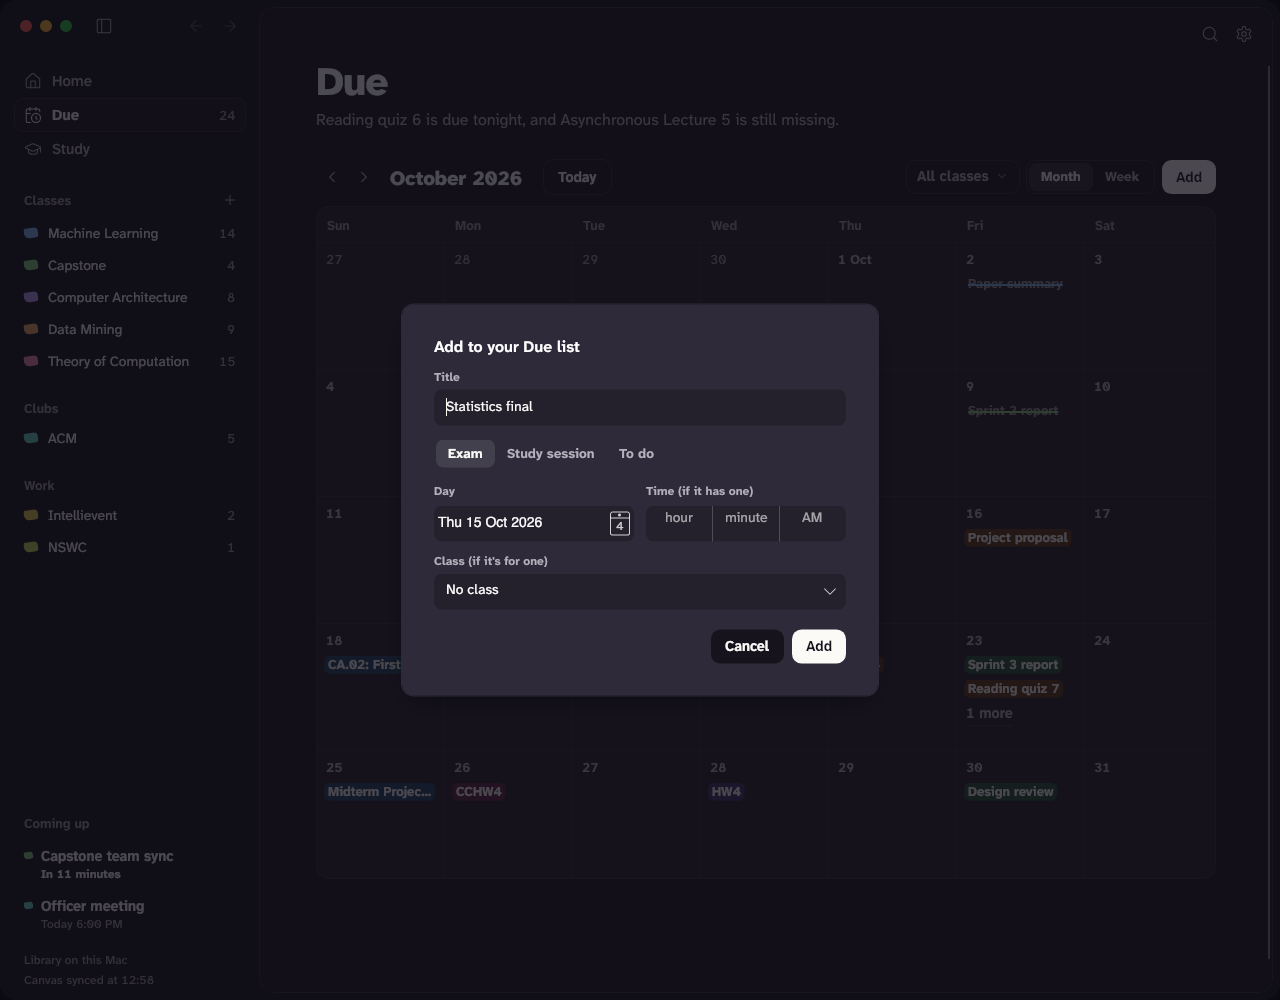
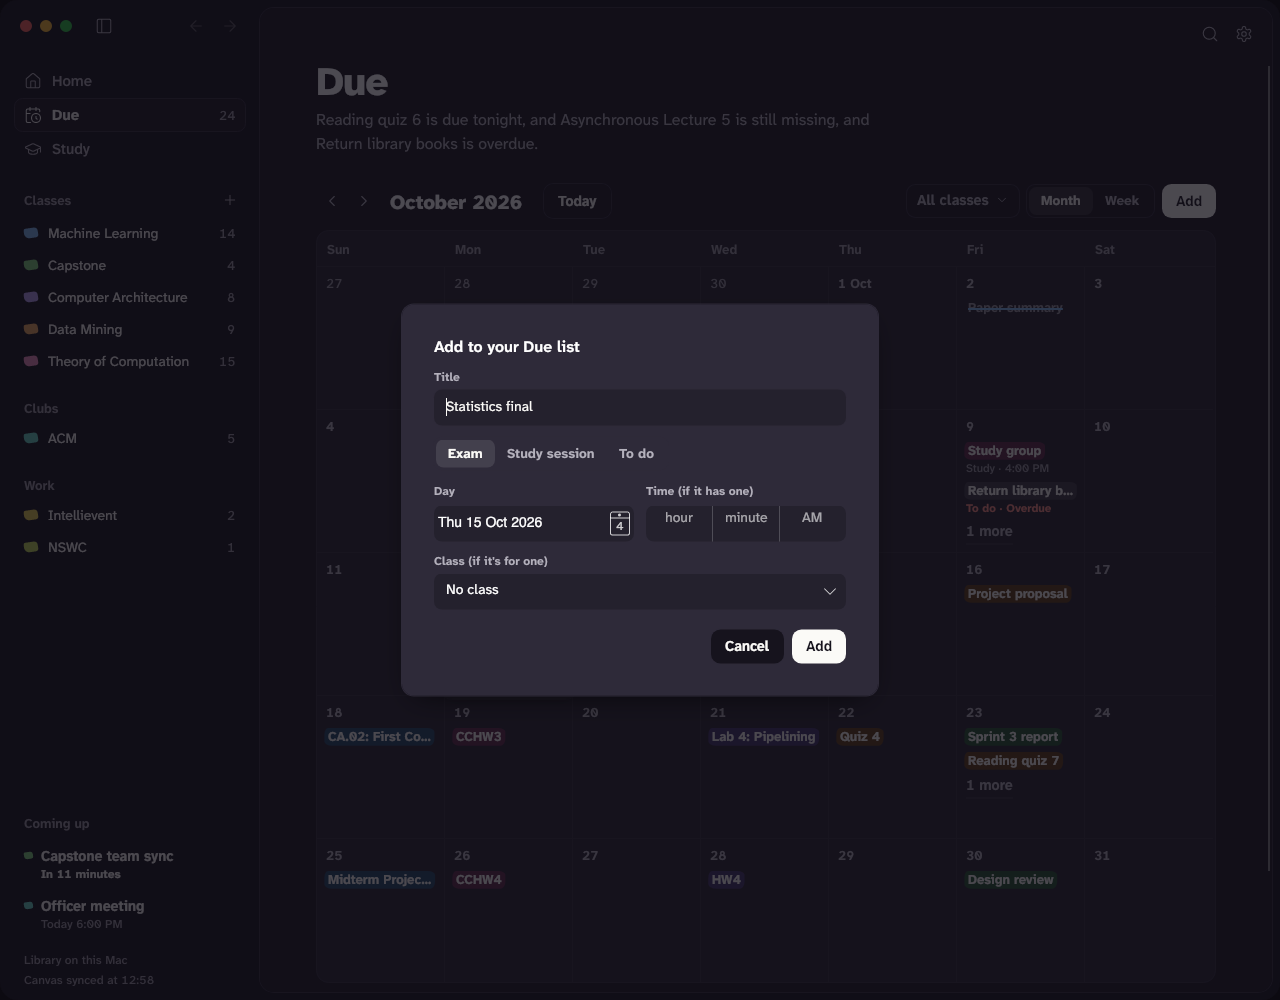
A past own exam or study session is behind the student, a past own to-do is overdue; neither reads missing
Assignments.Behind is the one rule (the in-class quiz that happened, and now an own exam or study session): ToHandIn and Upcoming ask it,
so such an item leaves Overdue, the count, Home and Ask the moment its time passes. The Due list sends them apart as behind, so the
calendar keeps them on their day, not struck through. A past unticked own to-do is overdue (label Overdue; Home says is overdue).

diff --git a/engine/src/StudyStash.App/ViewModels/OverviewModel.cs b/engine/src/StudyStash.App/ViewModels/OverviewModel.cs
@@ -557,6 +557,9 @@ public sealed partial class OverviewModel : ObservableObject
     static IEnumerable<CanvasApi.Item> StillToHandIn(CanvasApi.DueResponse? due) =>
         due is null ? [] : due.Groups.Where(g => g.Key != "handed_in").SelectMany(g => g.Items).Where(CanvasWords.ToHandIn);
 
+    /// <summary>Their own exams and study sessions that are over (<see cref="CanvasApi.DueResponse.Behind"/>): on their day, nowhere else.</summary>
+    static IEnumerable<CanvasApi.Item> BehindThem(CanvasApi.DueResponse? due) => due?.Behind ?? [];
+
     static IEnumerable<CanvasApi.Item> HandedIn(CanvasApi.DueResponse? due) =>
         due is null ? [] : due.Groups.Where(g => g.Key == "handed_in").SelectMany(g => g.Items);
 
@@ -570,7 +573,7 @@ public sealed partial class OverviewModel : ObservableObject
     /// <summary>A deadline in the week's planner: under its day it shows only the time; in the Late column, the day it was due.</summary>
     static OverviewDue DueRow(CanvasApi.Item i, Sources s, Func<string, IBrush> dot, bool classLabel, bool done = false)
     {
-        bool late = !done && LateBefore(i, s);
+        bool late = !done && !i.OwnEvent && LateBefore(i, s);
         string when = done ? (i.Mark == "done" ? Kit.DueMarkModel.DoneState : "Handed in")
             : i.DueAt is not { } d ? "No due date"
             : late ? $"Was due {Words(Local(d, s), Local(d, s).Year == Local(s.Now, s).Year ? "ddd d" : "d MMM yyyy")}"
@@ -676,14 +679,26 @@ public sealed partial class OverviewModel : ObservableObject
             }
             else first = $"{Count(that.Count)} {Kind(that, plural: true)} due {on}";
         }
-        string then = !missing && first.Length > 0 ? "" : late.Count switch
-        {
-            0 => "",
-            1 => first.Length > 0 ? $"and {late[0].Name} is still missing" : $"{late[0].Name} is still missing",
-            _ => first.Length > 0 ? $"and {Count(late.Count).ToLowerInvariant()} are still missing" : $"{Count(late.Count)} {Kind(late, plural: true)} are still missing",
-        };
+        string then = !missing && first.Length > 0 ? "" : Lateness(late, afterFirst: first.Length > 0);
         if (first.Length == 0 && then.Length == 0) return "";
         return first.Length > 0 && then.Length > 0 ? $"{first}, {then}." : $"{first}{then}.";
+    }
+
+    /// <summary>What's late, in words: Canvas work that wasn't handed in is "still missing", the student's own to-do is "overdue"
+    /// (never "missing"); "" when nothing is. <paramref name="afterFirst"/>: it follows what's due next, so it begins "and".</summary>
+    static string Lateness(List<CanvasApi.Item> late, bool afterFirst)
+    {
+        string Group(List<CanvasApi.Item> rows, string one, string many) => rows.Count switch
+        {
+            0 => "",
+            1 => $"{rows[0].Name} {one}",
+            _ => afterFirst ? $"{Count(rows.Count).ToLowerInvariant()} {many}" : $"{Count(rows.Count)} {Kind(rows, plural: true)} {many}",
+        };
+        var parts = new[]
+        {
+            Group([.. late.Where(i => !i.Own)], "is still missing", "are still missing"), Group([.. late.Where(i => i.Own)], "is overdue", "are overdue"),
+        }.Where(p => p.Length > 0).ToList();
+        return parts.Count == 0 ? "" : (afterFirst ? "and " : "") + string.Join(", and ", parts);
     }
 
     /// <summary>
@@ -716,6 +731,7 @@ public sealed partial class OverviewModel : ObservableObject
         bool Wanted(string cls) => only is null || cls == only;
         var open = StillToHandIn(s.Due).Where(i => Wanted(i.Class)).ToList();
         var done = HandedIn(s.Due).Where(i => Wanted(i.Class)).ToList();
+        var over = BehindThem(s.Due).Where(i => Wanted(i.Class)).ToList();
         var days = new List<WeekDay>();
         var late = today >= weekStart && today < weekStart.AddDays(7)
             ? open.Where(i => LateBefore(i, s) && (i.DueAt is not { } d || Local(d, s).Date < weekStart)).OrderBy(i => i.DueAt ?? DateTimeOffset.MinValue).ToList()
@@ -737,7 +753,7 @@ public sealed partial class OverviewModel : ObservableObject
             foreach (var m in (s.Events ?? []).Where(m => m.Class is { } c && Wanted(c) && Local(m.Start, s).Date == date).OrderBy(m => m.Start))
                 day.Meetings.Add(new WeekMeeting(Words(Local(m.Start, s), "h:mm"), ClassNames.Short(m.Class!), dot(m.Class!),
                     s.Lectures.Any(l => l.Class == m.Class && l.Date is { } at && at >= m.Start.AddMinutes(-45) && at <= m.End.AddMinutes(45))));
-            var due = open.Where(i => i.DueAt is { } d && Local(d, s).Date == date).Select(i => (Item: i, Done: false))
+            var due = open.Concat(over).Where(i => i.DueAt is { } d && Local(d, s).Date == date).Select(i => (Item: i, Done: false))
                 .Concat(done.Where(i => i.DueAt is { } d && Local(d, s).Date == date).Select(i => (Item: i, Done: true)))
                 .OrderBy(x => x.Item.DueAt).Select(x => DueRow(x.Item, s, dot, only is null, done: x.Done)).ToList();
             Fill(day, due);
@@ -936,7 +952,7 @@ public sealed partial class OverviewModel : ObservableObject
             soon = away <= 7;
             when = away <= 1 ? $"{Day(d, s.Now, s.Zone)}, {Time(d, s.Zone)}" : away <= 14 ? $"{Day(d, s.Now, s.Zone)}, in {away} days" : Day(d, s.Now, s.Zone);
         }
-        return new RailDue(i.Name, when, soon, late, first, $"{i.Name}, {(late ? "missing, " : "due ")}{when}", () => s.OpenAssignment?.Invoke(i.Class, i.Id));
+        return new RailDue(i.Name, when, soon, late, first, $"{i.Name}, {(late ? i.Own ? "overdue, " : "missing, " : "due ")}{when}", () => s.OpenAssignment?.Invoke(i.Class, i.Id));
     }
 
     /// <summary>A Canvas class's lists, in the rail: each opens that list.</summary>

diff --git a/engine/src/StudyStash.App/ViewModels/DueCalendarModel.cs b/engine/src/StudyStash.App/ViewModels/DueCalendarModel.cs
@@ -76,7 +76,9 @@ public sealed partial class DueCalendarModel : ObservableObject
         sources = s with { OpenOwn = item => Own.Edit(item, s.Zone) };
         var dots = s.Classes.GroupBy(c => c.Name).ToDictionary(g => g.Key, g => g.First().Dot);
         dot = name => dots.TryGetValue(name, out var d) ? d : Brushes.Gray;
+        // Their own exams and study sessions that are over stay on their day, not struck through: they were never handed in.
         all = [.. (s.Due?.Groups ?? []).SelectMany(g => g.Items.Select(i => (i, Done: g.Key == "handed_in" || !CanvasWords.ToHandIn(i))))
+            .Concat((s.Due?.Behind ?? []).Select(i => (i, Done: false)))
             .Where(x => x.i.DueAt is not null).GroupBy(x => (x.i.Class, x.i.Id)).Select(g => g.First())];
         var today = Today;
         month = new DateTime(today.Year, today.Month, 1);
@@ -182,7 +184,7 @@ public sealed partial class DueCalendarModel : ObservableObject
     IEnumerable<(CanvasApi.Item Item, bool Done)> Showing => all.Where(x => Class is null || x.Item.Class == Class);
 
     /// <summary>Past its day and not handed in: it says so, in words, on the day it was due.</summary>
-    bool IsMissing(CanvasApi.Item i, bool done) => !done && (i.Missing || i.Status is "missing" or "overdue" or "past due" || Local(i.DueAt!.Value).Date < Today);
+    bool IsMissing(CanvasApi.Item i, bool done) => !done && !i.OwnEvent && (i.Missing || i.Status is "missing" or "overdue" or "past due" || Local(i.DueAt!.Value).Date < Today);
 
     CalendarItem ItemFor(CanvasApi.Item i, bool done)
     {
@@ -190,14 +192,16 @@ public sealed partial class DueCalendarModel : ObservableObject
         bool missing = IsMissing(i, done);
         string time = at.ToString("h:mm tt", CultureInfo.InvariantCulture);
         // The end of the day is when most things are due, so it goes unsaid, except today: "Tonight 11:59 PM".
-        string sub = missing ? "Missing" : done ? ""
+        // Their own to-do is overdue, never "missing" (that's for work that wasn't handed in).
+        string late = i.Own ? "Overdue" : "Missing";
+        string sub = missing ? late : done ? ""
             : at.Date == Today ? $"{(at.Hour >= 17 ? "Tonight" : "Today")} {time}"
             : at is { Hour: 23, Minute: 59 } ? "" : time;
         // The student's own item has its small kind word in front, in place of Canvas's link: "Exam · 9:00 AM".
         if (i.Own) sub = sub.Length > 0 ? $"{Kit.OwnDueFormModel.WordFor(i.What)} · {sub}" : Kit.OwnDueFormModel.WordFor(i.What);
         string cls = ClassNames.Display(i.Class);
         bool ticked = i.Mark == "done";
-        string state = ticked ? Kit.DueMarkModel.DoneState : done ? "Handed in" : missing ? "Missing" : "";
+        string state = ticked ? Kit.DueMarkModel.DoneState : done ? "Handed in" : missing ? late : "";
         string day = OverviewModel.Day(i.DueAt!.Value, sources.Now, sources.Zone);
         string said = string.Join(", ", new[] { i.Name, cls, i.AllDay ? $"due {day}" : $"due {day} at {time}", state }.Where(w => w.Length > 0));
         return new CalendarItem(i.Class, i.Id, i.Name, sub, missing, done, dot(i.Class), cls.Length > 0 ? $"{i.Name}, {cls}" : i.Name, said,

diff --git a/engine/src/StudyStash.App/Demo.cs b/engine/src/StudyStash.App/Demo.cs
@@ -281,8 +281,9 @@ public static class Demo
     /// <param name="done">The id of a Due item (d1 is the missing one) the student ticked off in Syft Notes.</param>
     /// <param name="hidden">The id of a Due item the student hid.</param>
     /// <param name="quiet">No class or meeting left today, so Home's sentence is about what's due (and missing).</param>
-    /// <param name="own">Two of the student's own items on the Due list: a Data Mining midterm (an exam, Wednesday 9:00 AM, id o1) and a
-    /// study session for Theory of Computation (Tuesday 4:00 PM, id o2).</param>
+    /// <param name="own">The student's own items on the Due list: a Data Mining midterm (an exam, Wednesday 9:00 AM, id o1) and a study
+    /// session for Theory of Computation (Tuesday 4:00 PM, o2) this week; last Friday's study group (o3), behind them; and a to-do with no
+    /// class that is overdue (o4).</param>
     public static LibraryModel Semester(Page page = Page.Home, bool recording = false, bool narrow = false, Action<Page>? go = null, string? done = null, string? hidden = null, bool quiet = false, bool own = false)
     {
         (string Name, string Hue, int Notes, string Group)[] folders =
@@ -361,14 +362,24 @@ public static class Demo
         };
         if (own)
         {
-            CanvasApi.Item Own(string c, string id, string name, string what, double day, double hour) => new()
+            CanvasApi.Item Own(string c, string id, string name, string what, DateTimeOffset at, string status = "open") => new()
             {
-                Class = c, Id = id, Name = name, Kind = "mine", What = what, Status = "open", DueAt = monday.AddDays(day).AddHours(hour),
+                Class = c, Id = id, Name = name, Kind = "mine", What = what, Status = status, DueAt = at, AllDay = at.Hour == 23 && at.Minute == 59,
             };
+            // The week's exam and study session; last Friday's study group is behind them (on its day, not overdue), and a to-do they
+            // didn't tick off is overdue.
+            var studyGroup = Own(toc, "o3", "Study group", "study", monday.AddDays(-3).AddHours(16));
+            var library = Own("", "o4", "Return library books", "task", monday.AddDays(-3).AddHours(23).AddMinutes(59), "overdue");
             due = due with
             {
-                Groups = [.. due.Groups.Select(g => g.Key == "week" ? g with { Items = [.. g.Items, Own(toc, "o2", "Review proofs", "study", 1, 16), Own(mining, "o1", "Data Mining midterm", "exam", 2, 9)] } : g)],
-                ToHandIn = due.ToHandIn + 2,
+                Groups = [.. due.Groups.Select(g => g.Key switch
+                {
+                    "week" => g with { Items = [.. g.Items, Own(toc, "o2", "Review proofs", "study", monday.AddDays(1).AddHours(16)), Own(mining, "o1", "Data Mining midterm", "exam", monday.AddDays(2).AddHours(9))] },
+                    "overdue" => g with { Items = [.. g.Items, library] },
+                    _ => g,
+                })],
+                Behind = [studyGroup],
+                ToHandIn = due.ToHandIn + 3,
             };
         }
         if (done is not null || hidden is not null) due = Marked(due, done, hidden);

diff --git a/engine/src/StudyStash.Core/Canvas/Assignments.cs b/engine/src/StudyStash.Core/Canvas/Assignments.cs
@@ -88,6 +88,7 @@ public static class Assignments
         "excused" => "Excused",
         "no submission" => "Nothing to hand in",
         "closed" => "Closed",
+        "overdue" => "Overdue",
         _ => status,
     };
 
@@ -223,18 +224,22 @@ public static class Assignments
         SharedFile.Write(PathIn(home), JsonSerializer.Serialize(items.ToList(), Options));
     }
 
+    /// <summary>Takes nothing to hand in and its time has gone (<paramref name="now"/> is wall-clock, like <see cref="Assignment.Due"/>):
+    /// an in-class quiz that already happened, or an exam or study session the student put on their own list
+    /// (<see cref="DueMine.IsEvent"/>). It is simply behind them; unlike work that wasn't handed in, it is never overdue or missing.</summary>
+    public static bool Behind(Assignment a, DateTime now) =>
+        (a.Status == "no submission" || DueMine.IsEvent(a)) && a.Due.Length > 0 && DateTime.Parse(a.Due, CultureInfo.InvariantCulture) < now;
+
     /// <summary>Still to hand in at <paramref name="now"/> (wall-clock, like <see cref="Assignment.Due"/>): not done, and not
-    /// work that takes nothing to hand in once its time has gone (an in-class quiz that already happened). That goes with
-    /// what's behind you and keeps its "Nothing to hand in" label; one still to come stays where it is. The class list, the
-    /// Due groups and their count all ask this, so they agree. (Decided when the list is read, not when it's synced: a quiz
-    /// held at 10:00 stops being "to hand in" at 10:00, not at the next sync.)</summary>
-    public static bool ToHandIn(Assignment a, DateTime now) =>
-        !a.Done && !(a.Status == "no submission" && a.Due.Length > 0 && DateTime.Parse(a.Due, CultureInfo.InvariantCulture) < now);
+    /// <see cref="Behind"/>. That goes with what's behind you and keeps its "Nothing to hand in" label; one still to come stays
+    /// where it is. The class list, the Due groups and their count all ask this, so they agree. (Decided when the list is read, not
+    /// when it's synced: a quiz held at 10:00 stops being "to hand in" at 10:00, not at the next sync.)</summary>
+    public static bool ToHandIn(Assignment a, DateTime now) => !a.Done && !Behind(a, now);
 
     /// <summary>What's still to do, soonest first: open, past due or missing, due within <paramref name="days"/> (or
     /// overdue), plus anything with no due date that's open.</summary>
     public static List<Assignment> Upcoming(IEnumerable<Assignment> all, DateTime now, int days = 14, string? className = null) =>
-        all.Where(a => (className is null || a.ClassName == className) && !a.Done && a.Status != "no submission")
+        all.Where(a => (className is null || a.ClassName == className) && !a.Done && a.Status != "no submission" && !Behind(a, now))
             // By calendar day: "within a week" includes the whole of the seventh day.
             .Where(a => a.Due.Length == 0 || DateTime.Parse(a.Due, CultureInfo.InvariantCulture) < now.Date.AddDays(days + 1))
             .Where(a => a.Due.Length == 0 || a.Status != "past due" || DateTime.Parse(a.Due, CultureInfo.InvariantCulture) >= now.AddDays(-21))

diff --git a/engine/src/StudyStash.Core/Canvas/CanvasView.cs b/engine/src/StudyStash.Core/Canvas/CanvasView.cs
@@ -200,11 +200,16 @@ public static class CanvasView
 
     /// <summary>The Due list across every class: overdue, due this week, later, with no due date, and handed in in
     /// the last week (newest first). What the student hid (<see cref="DueMarks"/>) is in none of them: it comes apart, as
-    /// <c>hidden</c>, for the Due tab's "Show hidden". <paramref name="folderOf"/> looks up where an assignment's files are.</summary>
+    /// <c>hidden</c>, for the Due tab's "Show hidden". The student's own exams and study sessions whose time has gone are in none of
+    /// them either (<see cref="Assignments.Behind"/>): they come apart, as <c>behind</c>, for the calendar's days. <paramref name="folderOf"/>
+    /// looks up where an assignment's files are.</summary>
     public static JsonObject Due(IReadOnlyList<Assignment> everything, string synced, DateTimeOffset nowOffset, TimeZoneInfo zone, Func<string, long, string?> folderOf)
     {
-        var all = everything.Where(a => a.Mark != DueMarks.Hidden).ToList();
         var now = TimeZoneInfo.ConvertTime(nowOffset, zone).DateTime;
+        // The student's own to-do that's past and not ticked off is overdue (an exam or study session is behind them instead).
+        Assignment OwnOverdue(Assignment a) => a.Kind == DueMine.Kind && !DueMine.IsEvent(a) && Assignments.ToHandIn(a, now) && DueOf(a) is { } d && d < now
+            ? a with { Status = "overdue" } : a;
+        var all = everything.Where(a => a.Mark != DueMarks.Hidden).Select(OwnOverdue).ToList();
         bool ToHandIn(Assignment a) => Assignments.ToHandIn(a, now);
         bool Overdue(Assignment a) => ToHandIn(a) && DueOf(a) is { } d && d < now;
         bool Week(Assignment a) => ToHandIn(a) && DueOf(a) is { } d && d >= now && d < now.Date.AddDays(8);
@@ -230,11 +235,14 @@ public static class CanvasView
             groups.Add(new JsonObject { ["key"] = key, ["label"] = label, ["items"] = new JsonArray(items.Select(Row).ToArray()) });
         }
         var next = toHandIn.Where(a => DueOf(a) is not { } d || d >= now).OrderBy(a => DueOf(a) ?? DateTime.MaxValue).FirstOrDefault();
+        // Their own exams and study sessions whose time has gone: in no group (nothing to hand in) but still on the calendar, on their day.
+        var behind = all.Where(a => DueMine.IsEvent(a) && !a.Done && Assignments.Behind(a, now)).OrderBy(a => DueOf(a)).ThenBy(a => a.Name, StringComparer.Ordinal);
         var hidden = everything.Where(a => a.Mark == DueMarks.Hidden).OrderBy(a => DueOf(a) ?? DateTime.MaxValue).ThenBy(a => a.Name, StringComparer.Ordinal);
         return new JsonObject
         {
             ["synced"] = When(synced), ["to_hand_in"] = toHandIn.Count, ["next"] = next is null ? null : Row(next), ["groups"] = groups,
             ["hidden"] = new JsonArray(hidden.Select(Row).ToArray()),
+            ["behind"] = new JsonArray(behind.Select(Row).ToArray()),
         };
     }
 

diff --git a/engine/tests/StudyStash.App.Tests/DueOwnUiTests.cs b/engine/tests/StudyStash.App.Tests/DueOwnUiTests.cs
@@ -115,4 +115,25 @@ public class DueOwnUiTests
             window.Close(); // a failure leaves no dialog layer behind for the next test
         }
     }
+
+    /// <summary>Past, their exam is simply behind them, on its day and not struck through; their to-do not ticked off is overdue. Neither
+    /// reads "missing", which is for Canvas work that wasn't handed in.</summary>
+    [Fact]
+    public void A_past_exam_stays_on_its_day_and_a_past_todo_is_overdue_never_missing()
+    {
+        var zone = TimeZoneInfo.CreateCustomTimeZone("Test", TimeSpan.FromHours(-5), "Test", "Test");
+        var exam = new CanvasApi.Item { Class = "", Id = "1", Name = "Statistics final", Kind = "mine", What = "exam", Status = "open", DueAt = new DateTimeOffset(2026, 11, 2, 9, 0, 0, TimeSpan.FromHours(-5)) };
+        var todo = new CanvasApi.Item { Class = "", Id = "2", Name = "Return library books", Kind = "mine", What = "task", Status = "overdue", AllDay = true, DueAt = new DateTimeOffset(2026, 11, 3, 23, 59, 0, TimeSpan.FromHours(-5)) };
+        var sources = new OverviewModel.Sources
+        {
+            Now = new DateTimeOffset(2026, 11, 4, 10, 0, 0, TimeSpan.FromHours(-5)), Zone = zone,
+            Due = new CanvasApi.DueResponse { ToHandIn = 1, Groups = [new CanvasApi.Group { Key = "overdue", Items = [todo] }], Behind = [exam] },
+        };
+
+        Assert.Equal("Return library books is overdue.", OverviewModel.DueSentence(sources));
+        var shown = new DueCalendarModel(sources).Cells.SelectMany(c => c.Shown).ToDictionary(i => i.Title);
+        Assert.Equal(("Exam · 9:00 AM", false, false), (shown["Statistics final"].Sub, shown["Statistics final"].Missing, shown["Statistics final"].Done));
+        Assert.Equal(("To do · Overdue", true), (shown["Return library books"].Sub, shown["Return library books"].Missing));
+        Assert.Equal(["Exam · 9:00 AM"], OverviewModel.WeekOf(sources, _ => Avalonia.Media.Brushes.Gray, new DateTime(2026, 11, 1)).SelectMany(d => d.Deadlines).Where(d => d.Title == "Statistics final").Select(d => d.When));
+    }
 }

diff --git a/engine/tests/StudyStash.Core.Tests/DueMineTests.cs b/engine/tests/StudyStash.Core.Tests/DueMineTests.cs
@@ -85,6 +85,20 @@ public class DueMineTests
         using var again = await site.Client.DeleteAsync($"/api/v2/due/mine/{taskId}");
         Assert.Equal(System.Net.HttpStatusCode.NotFound, again.StatusCode);
 
+        // Past, an exam is simply behind the student (not overdue, not missing, not to hand in: the same rule as an in-class quiz that
+        // happened, so Home's count and Ask agree) yet still on the calendar's day; a to-do not ticked off is overdue.
+        await Add(new { title = "Statistics final", what = "exam", @class = "", day = "2025-09-22", time = "09:00" });
+        var past = await Add(new { title = "Return library books", what = "task", @class = "", day = "2025-09-23", time = "" });
+        Assert.Equal(("Return library books", "Overdue", "overdue", 1), (Rows(past, "overdue").Single()["name"]!.GetValue<string>(), Rows(past, "overdue").Single()["label"]!.GetValue<string>(),
+            Rows(past, "overdue").Single()["status"]!.GetValue<string>(), (int)past["to_hand_in"]!));
+        Assert.Equal(["Statistics final"], past["behind"]!.AsArray().Select(i => i!["name"]!.GetValue<string>()));
+        Assert.DoesNotContain(past["groups"]!.AsArray().SelectMany(g => g!["items"]!.AsArray()), i => i!["name"]!.GetValue<string>() == "Statistics final");
+        Assert.Equal(["Return library books"], Assignments.Upcoming(Assignments.Shown(dir.Path), TimeZoneInfo.ConvertTime(FakeCanvas.DesignNow, FakeCanvas.Zone).DateTime, 7).Select(a => a.Name));
+        string lateAsked = await Asked();
+        Assert.Contains("- Overdue, was due Tue 23 Sep 2025, 11:59 PM: Return library books (own to-do)", lateAsked);
+        Assert.DoesNotContain("Statistics final", lateAsked);
+        Assert.DoesNotContain("missing", lateAsked);
+
         // What isn't a day or a title is refused, in words.
         using var junk = await site.Client.PostAsJsonAsync("/api/v2/due/mine", new { title = "", what = "exam", @class = "", day = "", time = "" });
         Assert.Equal(System.Net.HttpStatusCode.BadRequest, junk.StatusCode);

diff --git a/engine/src/StudyStash.App/Services/CanvasApi.cs b/engine/src/StudyStash.App/Services/CanvasApi.cs
@@ -417,6 +417,9 @@ public static class CanvasApi
         public IReadOnlyList<Group> Groups { get; init; } = [];
         /// <summary>What the student hid in Syft Notes: in none of the groups, listed apart for "Show hidden".</summary>
         public IReadOnlyList<Item> Hidden { get; init; } = [];
+        /// <summary>The student's own exams and study sessions whose time has gone: behind them, in none of the groups, but still
+        /// on the calendar's days.</summary>
+        public IReadOnlyList<Item> Behind { get; init; } = [];
     }
 
     public sealed record Group
@@ -460,6 +463,9 @@ public static class CanvasApi
 
         /// <summary>The student's own item, not Canvas's.</summary>
         public bool Own => Kind == Core.Canvas.DueMine.Kind;
+
+        /// <summary>Their own exam or study session, which is behind them once its time has passed (a to-do stays theirs until ticked off).</summary>
+        public bool OwnEvent => Own && What is "exam" or "study";
     }
 
     public sealed record AssignmentsResponse

diff --git a/engine/src/StudyStash.Core/Canvas/DueMine.cs b/engine/src/StudyStash.Core/Canvas/DueMine.cs
@@ -109,6 +109,10 @@ public static class DueMine
         }
     }
 
+    /// <summary>An exam or a study session: it happens at its time and then it is simply behind the student, where a to-do stays
+    /// theirs until it is ticked off (<see cref="Assignments.Behind"/>).</summary>
+    public static bool IsEvent(Assignment a) => a.Kind == Kind && a.What is "exam" or "study";
+
     /// <summary>The items as rows of the Due list: always to do (the student ticks them off with a <see cref="DueMarks"/> mark).</summary>
     public static List<Assignment> Rows(string home) =>
         [.. Load(home).Select(o => new Assignment(o.Class, o.Id, o.Title, o.Due, null, "open", null, "", "", Kind: Kind, DueAt: o.DueAt, What: o.What, AllDay: o.AllDay))];
